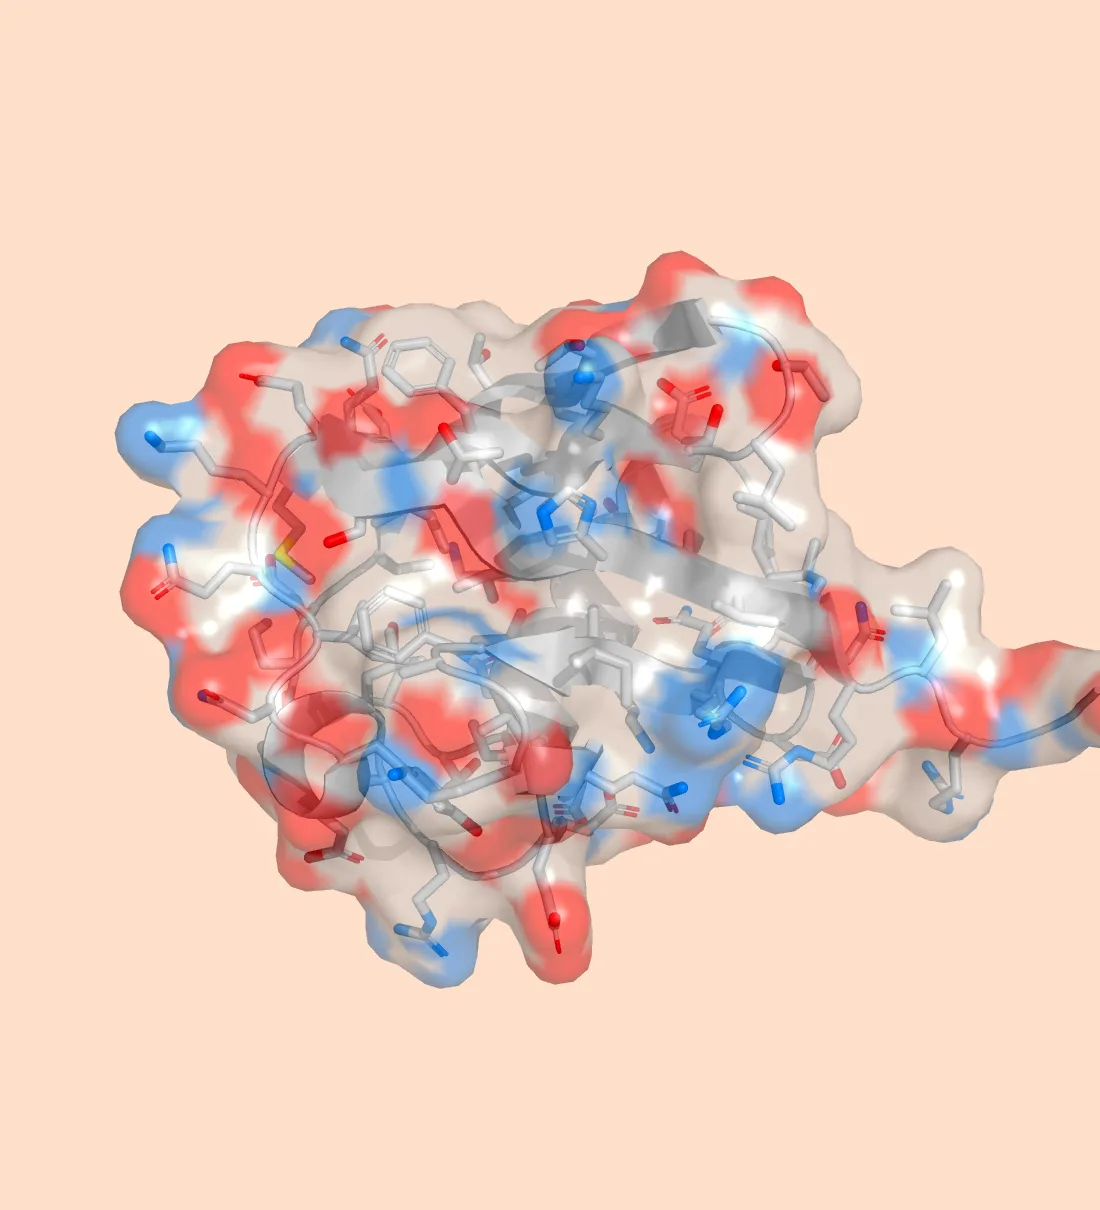
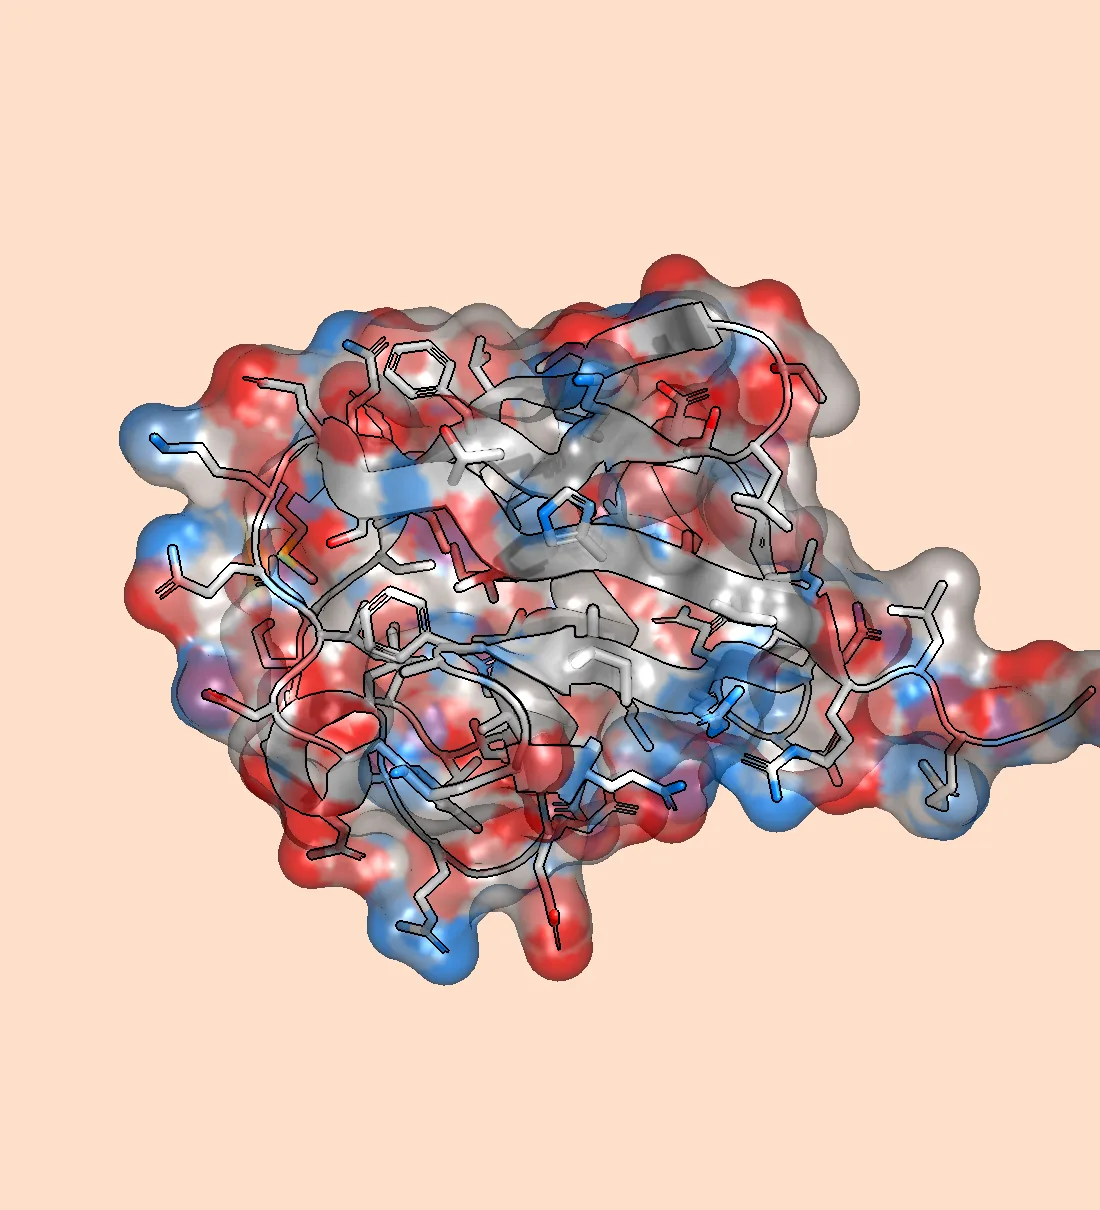
Comparison surface: real Metal render (transparent surface via OIT), replacing ray stopgap
Claude-Session: https://claude.ai/code/session_01QceDqvDSwS6PduWjgjT3M7

Changed region(s): [[0.0927, 0.1835, 1.0, 0.8256]]

diff --git a/index.html b/index.html
@@ -54,7 +54,7 @@
   </div>
 
 <script>
[2 lines of base64/hex data omitted]
 function b2u(b64){const bin=atob(b64);const u=new Uint8Array(bin.length);for(let i=0;i<bin.length;i++)u[i]=bin.charCodeAt(i);return u;}
 async function unlock(code){
   const blob=b2u(B64);